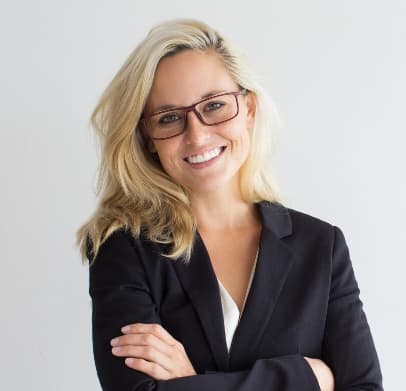
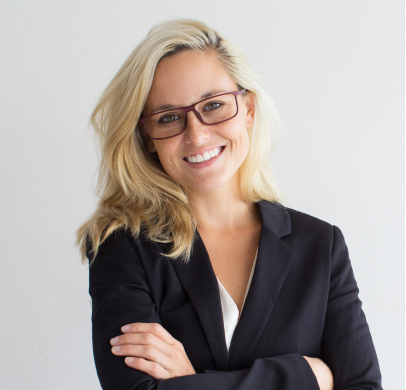
zmiana jakości img Nasz zespół

diff --git a/index.html b/index.html
@@ -121,7 +121,7 @@
                 src="./images/frontenddeveloper.jpg"
                 alt="female team member"
                 width="406"
-                height="391"
+                height="390"
               />
               <figcaption>
                 <h4>John Doe</h4>
@@ -135,7 +135,7 @@
                 src="./images/marketing.jpg"
                 alt="male team member"
                 width="406"
-                height="391"
+                height="390"
               />
               <figcaption>
                 <h4>John Doe</h4>
@@ -149,7 +149,7 @@
                 src="./images/uidesigner.jpg"
                 alt="male team member"
                 width="406"
-                height="391"
+                height="390"
               />
               <figcaption>
                 <h4>John Doe</h4>
